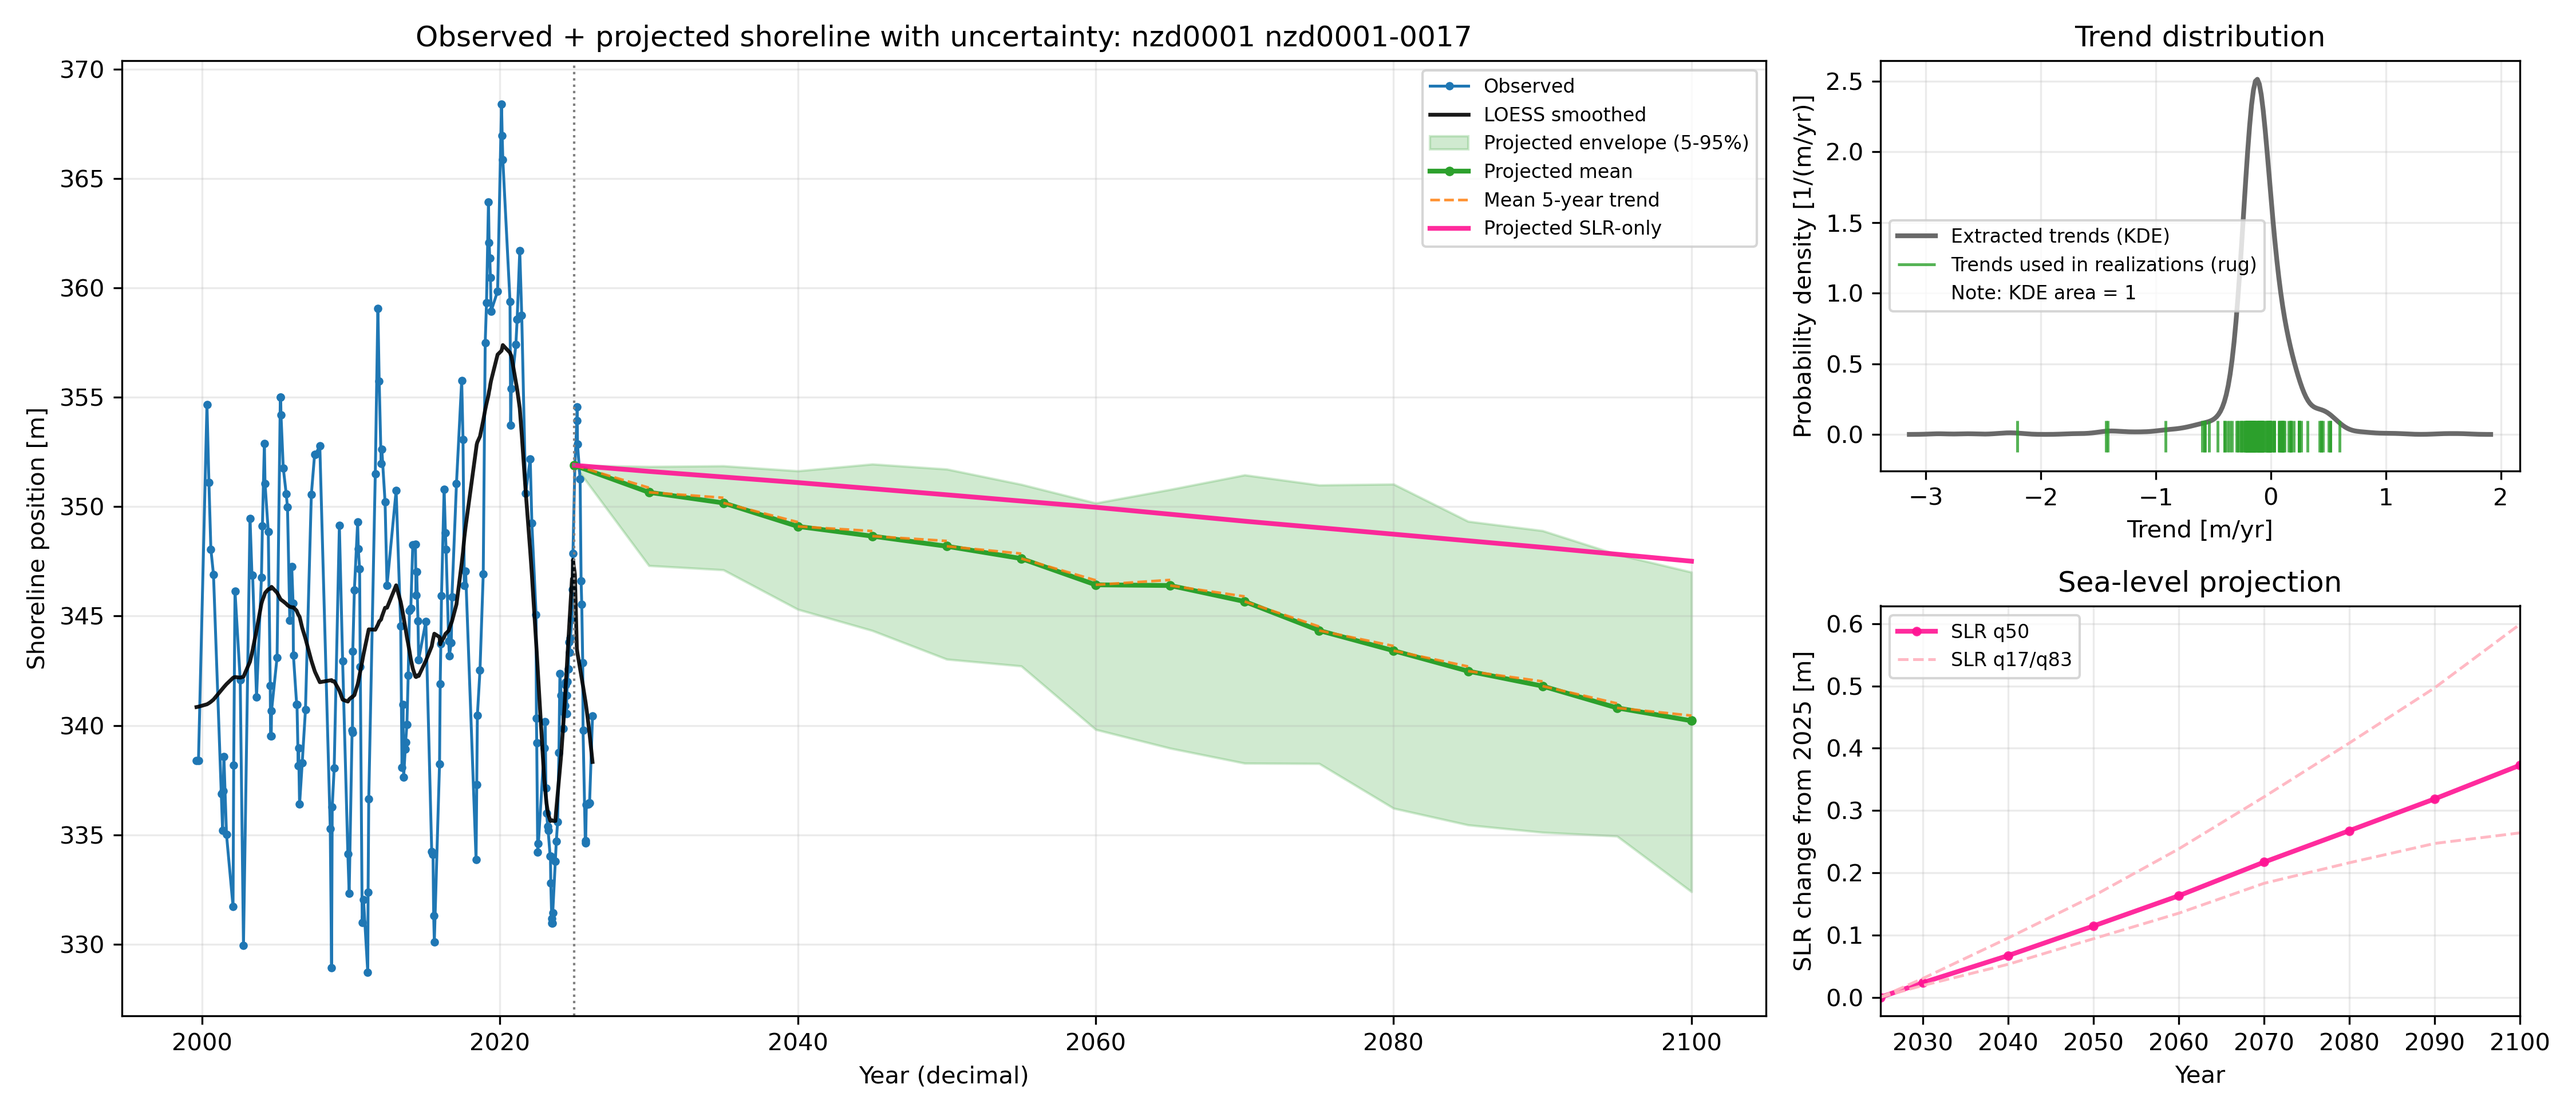
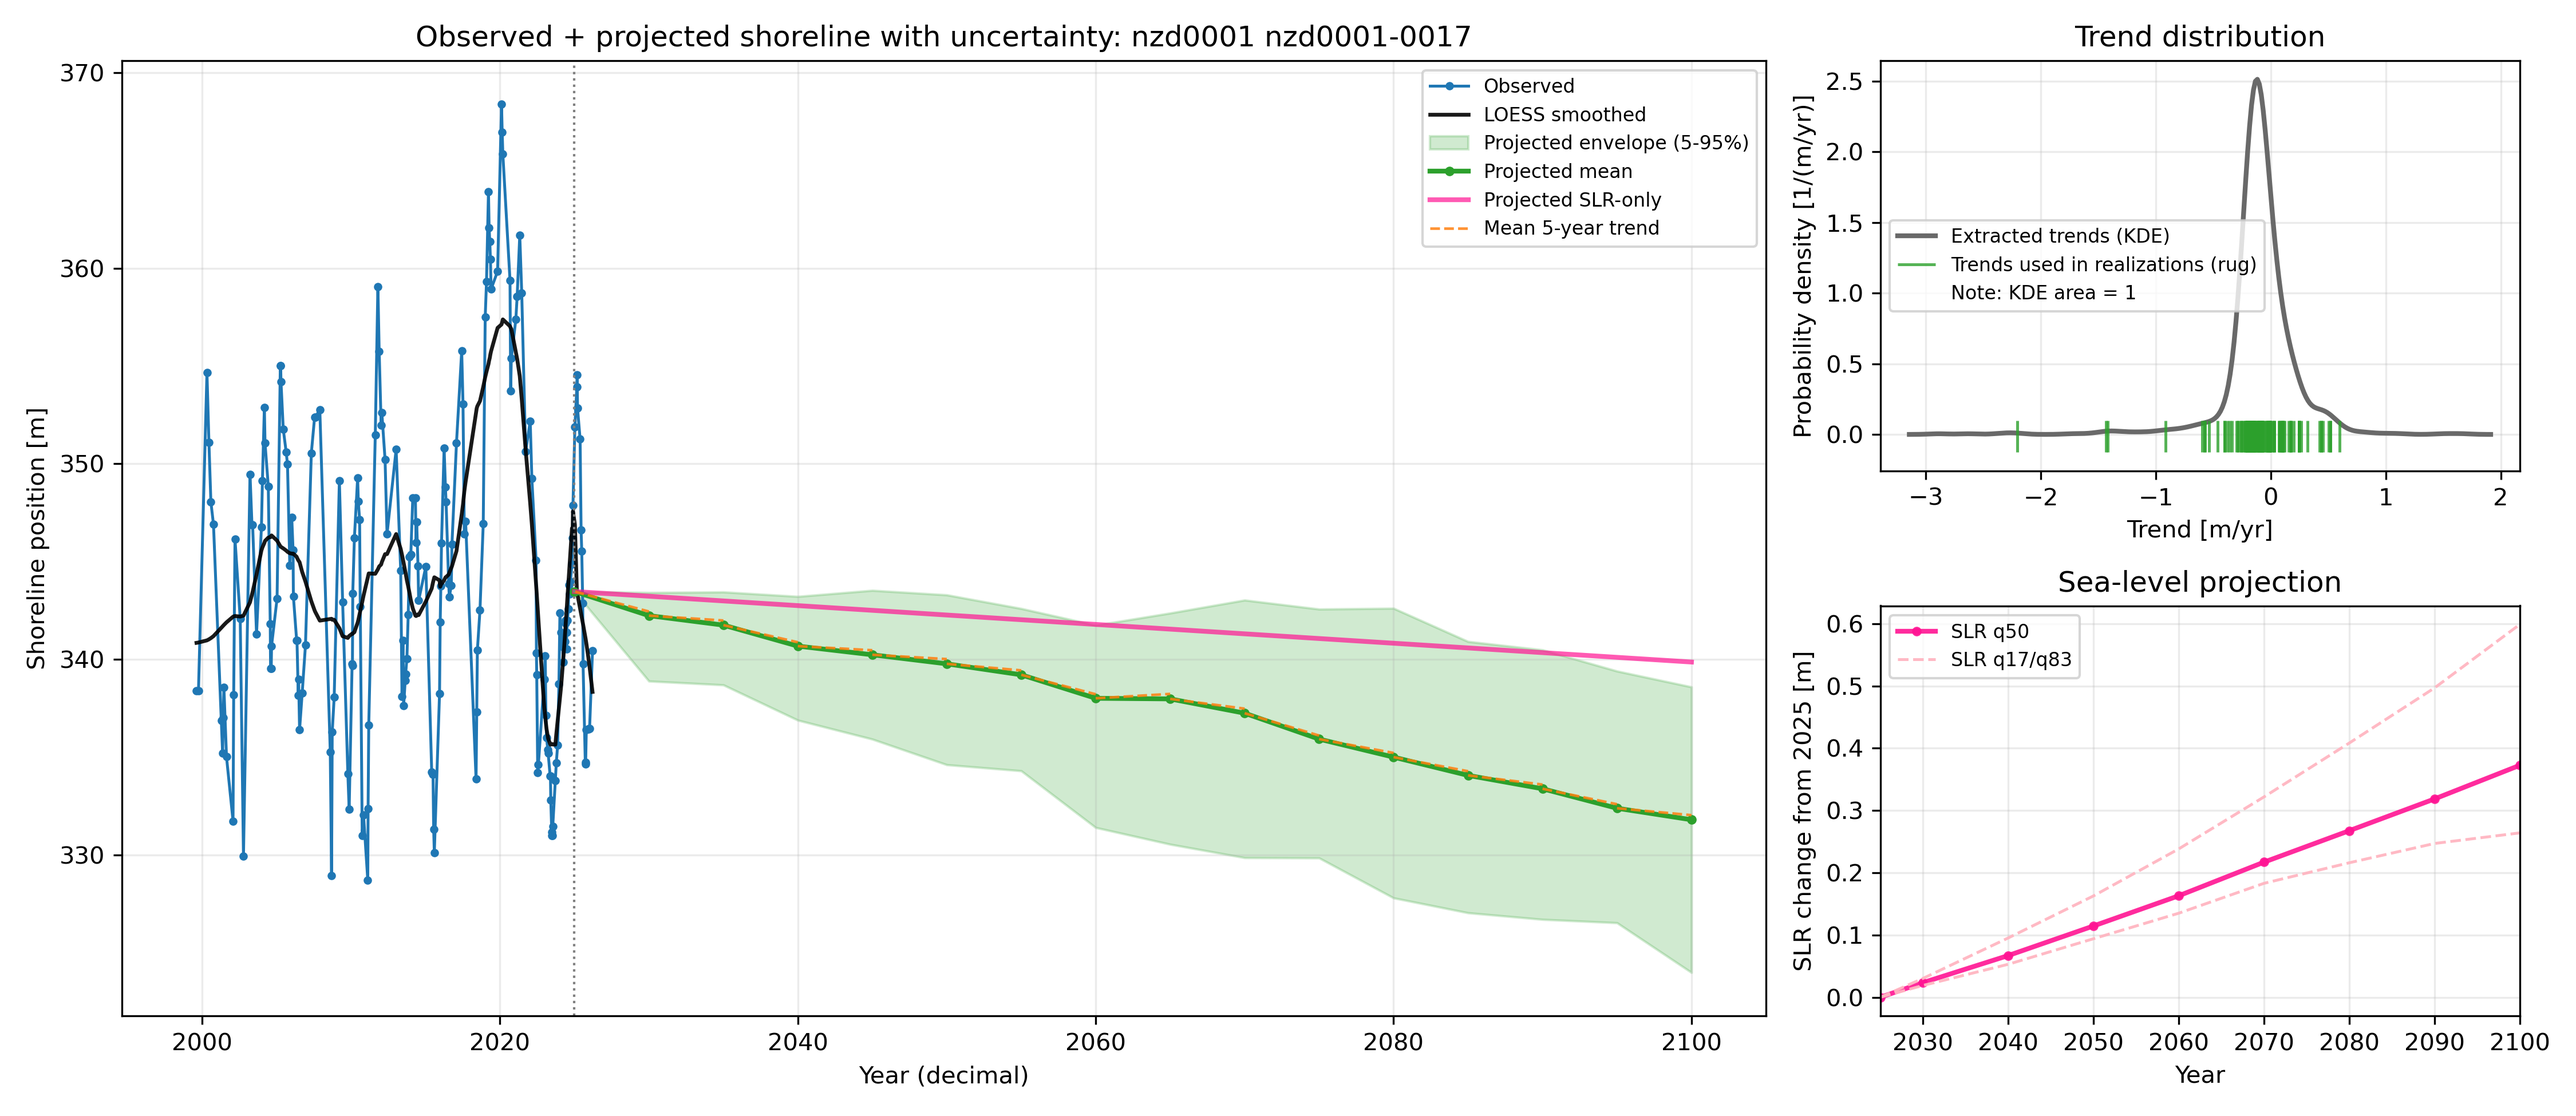
MOved the initial projection point to 5 year average loess

Changed region(s): [[0.0311, 0.2154, 0.6844, 0.8615], [0.56, 0.1538, 0.6533, 0.2154]]

diff --git a/viz.py b/viz.py
@@ -22,8 +22,7 @@ def plot_observed_and_projected_single_run(
     t_loess=None,
     y_loess=None,
     trend_pool=None,
-    tan_beta=None,
-    c=1.0,
+    slr_only_dy_segments=None,
 ):
     """Plot observed shoreline and projected trajectories.
 
@@ -50,10 +49,8 @@ def plot_observed_and_projected_single_run(
     if trend_pool is not None:
         trend_pool = np.asarray(trend_pool, dtype=float).ravel()
         trend_pool = trend_pool[np.isfinite(trend_pool)]
-    if tan_beta is not None:
-        tan_beta = float(tan_beta)
-        if not np.isfinite(tan_beta) or tan_beta == 0.0:
-            tan_beta = None
+    if slr_only_dy_segments is not None:
+        slr_only_dy_segments = np.asarray(slr_only_dy_segments, dtype=float)
 
     if t_obs.size == 0 or y_obs.size == 0:
         raise ValueError("Observed time series is empty.")
@@ -81,6 +78,17 @@ def plot_observed_and_projected_single_run(
 
     if r_matrix.shape[1] != dy_matrix.shape[1]:
         raise ValueError("r_segments and dy_segments must have the same number of segments.")
+    if slr_only_dy_segments is not None:
+        if slr_only_dy_segments.ndim == 1:
+            slr_only_matrix = slr_only_dy_segments[np.newaxis, :]
+        elif slr_only_dy_segments.ndim == 2:
+            slr_only_matrix = slr_only_dy_segments
+        else:
+            raise ValueError("slr_only_dy_segments must be a 1D or 2D array.")
+        if slr_only_matrix.shape != dy_matrix.shape:
+            raise ValueError("slr_only_dy_segments must have the same shape as dy_segments.")
+    else:
+        slr_only_matrix = None
     if slr_years.size != slr_q17_values.size:
         raise ValueError("slr_years and slr_q17_values must have the same length.")
     if slr_years.size != slr_q50_values.size:
@@ -105,8 +113,23 @@ def plot_observed_and_projected_single_run(
     seg_starts = projection_start_year + np.concatenate(([0.0], np.cumsum(seg_durations)[:-1]))
     seg_ends = seg_starts + seg_durations
 
-    baseline_idx = int(np.argmin(np.abs(t_obs - projection_start_year)))
-    baseline_y = float(y_obs[baseline_idx])
+    # Anchor projections at the trailing 5-year mean of the LOESS curve.
+    # If LOESS is unavailable in that window, fall back to observed values.
+    baseline_window_years = 5.0
+    window_start = projection_start_year - baseline_window_years
+
+    baseline_source_t = t_loess if (t_loess is not None and t_loess.size > 0) else t_obs
+    baseline_source_y = y_loess if (y_loess is not None and y_loess.size > 0) else y_obs
+
+    baseline_mask = (
+        (baseline_source_t >= window_start)
+        & (baseline_source_t <= projection_start_year)
+    )
+    if np.any(baseline_mask):
+        baseline_y = float(np.mean(baseline_source_y[baseline_mask]))
+    else:
+        baseline_idx = int(np.argmin(np.abs(baseline_source_t - projection_start_year)))
+        baseline_y = float(baseline_source_y[baseline_idx])
 
     cum_dy = np.cumsum(dy_matrix, axis=1)
     proj_years = np.concatenate(([projection_start_year], seg_ends))
@@ -117,6 +140,14 @@ def plot_observed_and_projected_single_run(
     proj_shoreline_mean = np.mean(proj_shoreline_all, axis=0)
     proj_shoreline_q05 = np.quantile(proj_shoreline_all, 0.05, axis=0)
     proj_shoreline_q95 = np.quantile(proj_shoreline_all, 0.95, axis=0)
+
+    if slr_only_matrix is not None:
+        slr_only_cum = np.cumsum(slr_only_matrix, axis=1)
+        slr_only_shoreline_all = baseline_y + np.concatenate(
+            [np.zeros((slr_only_matrix.shape[0], 1)), slr_only_cum],
+            axis=1,
+        )
+        slr_only_shoreline_mean = np.mean(slr_only_shoreline_all, axis=0)
 
     dy_mean = np.mean(dy_matrix, axis=0)
     seg_start_shoreline = baseline_y + np.concatenate(([0.0], np.cumsum(dy_mean)[:-1]))
@@ -172,6 +203,16 @@ def plot_observed_and_projected_single_run(
             label="Projected single run",
         )
 
+    if slr_only_matrix is not None:
+        ax.plot(
+            proj_years,
+            slr_only_shoreline_mean,
+            color="deeppink",
+            linewidth=2.0,
+            alpha=0.7,
+            label="Projected SLR-only",
+        )
+
     first_label = True
     for i in range(n_segments):
         x0 = seg_starts[i]
@@ -196,18 +237,6 @@ def plot_observed_and_projected_single_run(
         slr_q17_values = slr_q17_values[slr_order]
         slr_q50_values = slr_q50_values[slr_order]
         slr_q83_values = slr_q83_values[slr_order]
-
-        if tan_beta is not None:
-            slr_q50_interp = np.interp(proj_years, slr_years, slr_q50_values)
-            slr_only_shoreline = baseline_y - (float(c) / tan_beta) * slr_q50_interp
-            ax.plot(
-                proj_years,
-                slr_only_shoreline,
-                color="deeppink",
-                linewidth=2.0,
-                alpha=0.7,
-                label="Projected SLR-only",
-            )
 
         ax_slr.plot(
             slr_years,

diff --git a/trend_uncertainty.py b/trend_uncertainty.py
@@ -234,6 +234,7 @@ def mc_shoreline_change(
     n=200_000,
     return_delta_s_samples=True,
     return_r_segment_samples=True,
+    return_slr_segment_samples=False,
 ):
     """
     Monte Carlo propagation for shoreline change using an
@@ -242,7 +243,7 @@ def mc_shoreline_change(
     For each simulation, dt is split into 5-year segments and an independent
     trend rate is sampled per segment:
 
-    dy_total = sum_k [ (c/tanβ) * ΔS / K + (p * r_k * Δt_k) ]
+    dy_total = sum_k [ -(c/tanβ) * ΔS / K + (p * r_k * Δt_k) ]
 
     where K is the number of segments, Δt_k is usually 5 years, and the last
     segment can be shorter if dt is not divisible by 5.
@@ -258,6 +259,8 @@ def mc_shoreline_change(
     - dt: time horizon (years)
         - return_r_segment_samples: if True, also return sampled r values for each
             time segment (useful for single-run diagnostics)
+        - return_slr_segment_samples: if True, also return the SLR-only shoreline
+            change component per segment for each realization
 
     Uncertainty sources:
     - Trend rate r_sat (from bootstrap)
@@ -332,6 +335,12 @@ def mc_shoreline_change(
         dy_rem = (bases * remainder / dt) + sampled_p * sampled_r_rem * remainder
         dy = np.concatenate([dy, dy_rem[:, np.newaxis]], axis=1)
 
+    # SLR-only shoreline change per segment, shape-matched with dy.
+    slr_dy = np.repeat(bases_per_seg[:, np.newaxis], n_segments, axis=1)
+    if remainder > 0:
+        slr_rem = bases * remainder / dt
+        slr_dy = np.concatenate([slr_dy, slr_rem[:, np.newaxis]], axis=1)
+
     # Total 75-year change used for summary statistics
     dy_total = dy.sum(axis=1)                                  # (n,)
 
@@ -359,16 +368,15 @@ def mc_shoreline_change(
         "dy_p95_m": float(np.quantile(dy_total, 0.95)),
     }
 
-    if return_delta_s_samples and return_r_segment_samples:
-        return dy, summary, sampled_delta_s, sampled_r_all
-
+    outputs = [dy, summary]
     if return_delta_s_samples:
-        return dy, summary, sampled_delta_s
-
+        outputs.append(sampled_delta_s)
     if return_r_segment_samples:
-        return dy, summary, sampled_r_all
+        outputs.append(sampled_r_all)
+    if return_slr_segment_samples:
+        outputs.append(slr_dy)
 
-    return dy, summary
+    return tuple(outputs)
 
 
 # def plot_delta_s_debug_histogram(
@@ -806,9 +814,10 @@ for site_id in nzd_sites_trial:
             n=n_mc_realizations_per_transect,
             return_delta_s_samples=True,
             return_r_segment_samples=True,
+            return_slr_segment_samples=True,
             )
         
-        dy, summ, sampled_delta_s, sampled_r_all = mc_result
+        dy, summ, sampled_delta_s, sampled_r_all, sampled_slr_dy = mc_result
 
         # if debug_slr_histograms:
         #     dy, summ, sampled_delta_s, sampled_r_all = mc_result
@@ -884,12 +893,15 @@ for site_id in nzd_sites_trial:
         # Pass all sampled realizations so the plot can show mean + uncertainty envelope.
         preview_dy = np.asarray(dy, dtype=float)
         preview_r_samples = np.asarray(sampled_r_all, dtype=float)
+        preview_slr_only_dy = np.asarray(sampled_slr_dy, dtype=float)
 
         preview_segment_years = 5
         preview_dt = int(summ["dt_years"])
 
         if preview_r_samples.shape != preview_dy.shape:
             raise ValueError("Preview r samples and dy segments must have matching shapes.")
+        if preview_slr_only_dy.shape != preview_dy.shape:
+            raise ValueError("Preview SLR-only segments and dy segments must have matching shapes.")
 
         preview_ts_plot_fp = site_dir / f"{site_id}_{transect_id}_single_run_observed_projected.png"
         plot_observed_and_projected_single_run(
@@ -910,8 +922,7 @@ for site_id in nzd_sites_trial:
             transect_id=transect_id,
             out_fp=preview_ts_plot_fp,
             trend_pool=boot_slopes,
-            tan_beta=tan_beta,
-            c=1.0,
+            slr_only_dy_segments=preview_slr_only_dy,
         )
 
         print(site_id, transect_id)
@@ -1014,7 +1025,7 @@ for i, vals in enumerate(groups_median, start=1):
 plt.xticks(range(1, len(labels) + 1), labels, rotation=90)
 plt.ylabel("Median shoreline change (m)")
 plt.title("Median shoreline change per site")
-plt.ylim(-0, 20)
+# plt.ylim(-0, 20)
 plt.tight_layout()
 plt.show()
 
